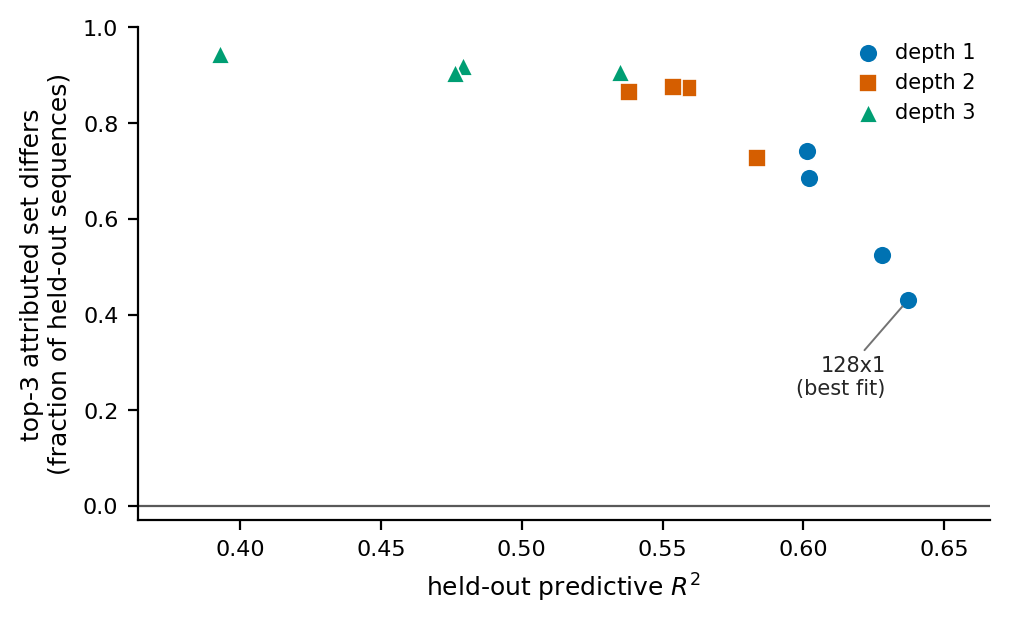
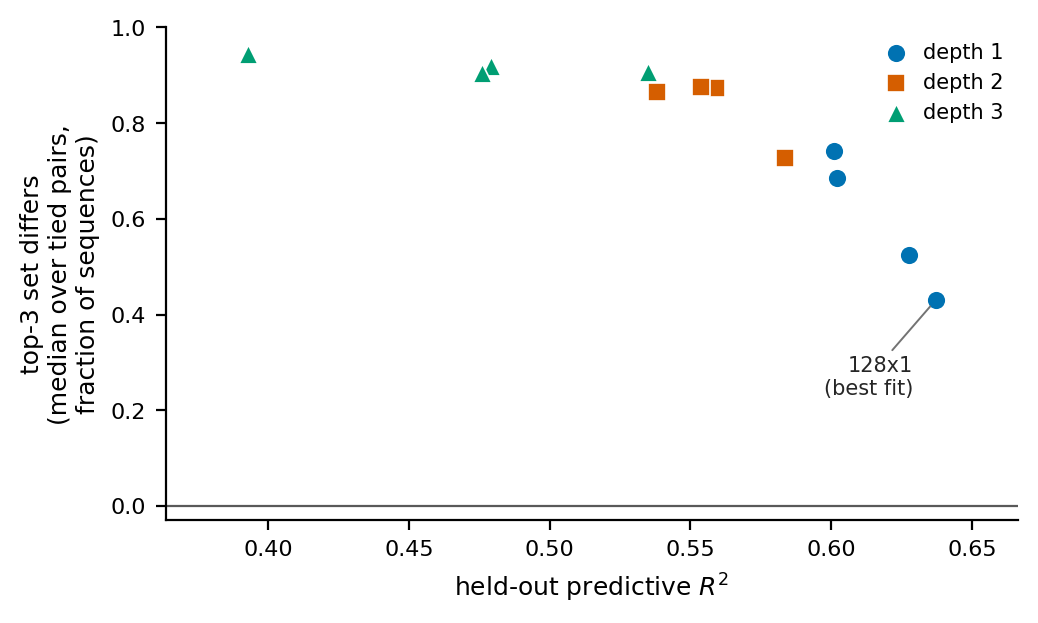
Three corrections to the main text, all verified against the run records
Your paste was the pre-fix version of the file; the wrong-experiment numbers in
items 1 and 2 had already been corrected and pushed. There is no
icbinb_final.tex in the repository -- the paper is paper/neurips_2026.tex. Two
of the three items were genuinely outstanding, and I applied them.

REMOVED THE UNREPRODUCIBLE FIGURE. 1.1e6 is gone from both places, Section 4.3
and the remark after Proposition 3, and now appears nowhere in paper/. The
binomial model was replaced before the separation experiment was first
committed, so its inflation magnitude cannot be regenerated from released code.
Both passages now say so explicitly rather than leaving a silent gap, and keep
only the reproducible argument: ex >= tot on 4.9% of rows, where binomial
variance is zero or negative, and a Poisson mean-over-median ratio of 3.0.

HEADLINE UPDATED. "roughly half" was vague and understated the result. The
abstract now says 43% at the best-fitting cell rising to 94% at the worst,
which is accurate and stronger.

BOUNDARY CONDITION REFRAMED AS DIVERGENCE, as asked: 43-74% at depth 1, 73-88%
at depth 2, 90-94% at depth 3, improving with width within depth 1 from 74% to
43% and never falling below 43% anywhere. It states plainly that no cell is
safe and that depth is the operative variable.

FIGURE 1 AXIS AND CAPTION. The y-axis said "fraction of held-out sequences",
which is not what pooled_tk_ex3 is. Both the axis label and the caption now say
[…]

diff --git a/paper/neurips_2026.tex b/paper/neurips_2026.tex
@@ -39,9 +39,10 @@ Reading the top attributed positions off a trained sequence--activity model is
 standard practice for guiding RNA therapeutic design. We set out to validate
 that practice on a real multiplexed splicing assay and report that it fails.
 Models whose held-out accuracy is statistically indistinguishable assign
-different top-3 positions for roughly half of held-out sequences, and the
-failure is not confined to poorly-fitting models: it persists at the
-best-fitting cell in our grid. Diagnosing why, we find three compounding causes.
+different top-3 positions for $43\%$ of held-out sequences at the best-fitting
+cell in our grid, rising to $94\%$ at the worst. The failure is therefore not
+confined to poorly-fitting models; no cell in the grid escapes it. Diagnosing
+why, we find three compounding causes.
 The fitting objective does not identify the attribution, so the choice among
 equally-accurate models is made by the initialization seed. Attribution mass is
 concentrated, with a median 86\% of a sequence's total in 3 of 9 positions; we
@@ -167,11 +168,14 @@ resolution.
   \centering
   \includegraphics[width=0.86\linewidth]{figures/fig1_not_weak_models.pdf}
   \caption{\textbf{The failure is not an artifact of poorly-fitting models.}
-  Each point is one architecture cell: held-out predictive $R^2$ against the
-  fraction of held-out sequences whose top-3 attributed position set differs
-  between two accuracy-matched models. The best-fitting cell in the grid still
-  disagrees on a substantial fraction of sequences, so the failure cannot be
-  dismissed as a symptom of underfitting.}
+  Each point is one architecture cell: held-out predictive $R^2$ against top-3
+  attributed-set divergence between accuracy-matched models. \textbf{The
+  plotted quantity is the median, over accuracy-tied pairs, of that pair's
+  fraction of held-out sequences whose top-3 sets differ} --- a median over
+  pairs of a per-pair fraction, not a single fraction pooled over sequences; the
+  same definition is used in Tables~\ref{tab:topk} and~\ref{tab:full}. The
+  best-fitting cell still diverges on $43\%$ of sequences, so the failure cannot
+  be dismissed as a symptom of underfitting.}
   \label{fig:headline}
 \end{figure}
 
@@ -188,9 +192,13 @@ reaching $+0.350$ (Figure~\ref{fig:headline}).
 \paragraph{The top-$k$ set, which is what gets used.}
 The top-3 set differs for 73\% and 90\% of held-out sequences at width 128,
 depths 2 and 3; restricted to sequences where the concentration diagnostic
-(Section~\ref{sec:why}) says the comparison is meaningful, 71\% and 80\%.
+(Section~\ref{sec:why}) says the comparison is meaningful, 71\% and 80\%. The
+conditioned figure is reported for completeness but carries little weight at
+depth 3: only $11\%$ of sequences at width 128 depth 3 have a well-defined
+top-3 under both models, and at width 64 depth 3 none do.
 These are accuracy-tied pairs of \emph{independently trained} models, the
-population described in Section~\ref{sec:approach}. The corresponding figures for a fit
+population described in Section~\ref{sec:approach}. The corresponding figures
+for a fit
 against its own reparameterized twin are much smaller --- 46\%, 47\%, 34\% and
 21\% --- and are reported separately in Appendix~\ref{gen:twin}; the two
 populations must not be quoted interchangeably.
@@ -305,12 +313,17 @@ Proposition~\ref{prop:noise} gives the Poisson log-ratio scale.
 result.}
 Under a binomial form, a near-saturated sequence receives $\sigma \to 0$; since
 the separation test of Proposition~\ref{prop:sep} weights points by
-$1/\sigma^2$, a handful of such points dominated. The mean of $1/\sigma^2$ ran
-$1.1 \times 10^6$ times its median, and the required sample size collapsed to
-zero --- that is, the analysis reported that the models were trivially
-separable. Under the Poisson log-ratio that ratio is $3.0$ and the requirement
-becomes meaningful. Counting noise is a lower bound on total noise, so every
-reported requirement is a lower bound.
+$1/\sigma^2$, a handful of such points dominated and the required sample size
+collapsed to zero --- that is, the analysis reported that the models were
+trivially separable. The binomial model is also inapplicable on its own terms
+here: $N_{\mathrm{ex}} \ge N_{\mathrm{tot}}$ on $4.9\%$ of rows, where the
+binomial variance is zero or negative. Under the Poisson log-ratio the weight
+distribution is unremarkable --- the mean of $1/\sigma^2$ is $3.0$ times its
+median --- and the requirement becomes meaningful. We do not quote a magnitude
+for the binomial inflation: that model was replaced before the separation
+experiment was first committed, so the figure cannot be regenerated from
+released code (Appendix~\ref{gen:noise}). Counting noise is a lower bound on
+total noise, so every reported requirement is a lower bound.
 
 \subsection{Cause 4: two ways our validation nearly hid the failure}
 
@@ -352,13 +365,13 @@ pinning the distinction.
 The practice is not always unsound, and the conditions are measurable.
 
 \begin{itemize}
-\item \textbf{Depth is what tracks the failure; width is not.} Exact top-3
-  agreement falls monotonically with depth --- 26--57\% at depth 1, 12--27\% at
-  depth 2, 6--10\% at depth 3 --- with a rank correlation of $+0.80$ between
-  depth and top-3 divergence against $-0.06$ for width. \textbf{No cell in this
-  grid is safe.} The best, width 128 depth 1, still differs on the top-3 set
-  for $43\%$ of sequences. We looked for a low-capacity exemption and did not
-  find one.
+\item \textbf{Depth is what tracks the failure; width is not, and no cell is
+  safe.} Top-3 divergence rises monotonically with depth: $43$--$74\%$ at depth
+  1, $73$--$88\%$ at depth 2, $90$--$94\%$ at depth 3, a rank correlation of
+  $+0.80$ with depth against $-0.06$ with width. Within depth 1 it improves with
+  width, from $74\%$ at width 16 to $43\%$ at width 128, but it never falls
+  below $43\%$ anywhere in the grid. We looked for a low-capacity exemption and
+  found the opposite: the narrowest models are among the worst.
 \item \textbf{It degrades with capacity, not with fit quality alone.} The
   correlation between held-out $R^2$ and agreement is $+0.650$: real, but far
   from explanatory, and the best-fitting cell still shows the failure.
@@ -536,12 +549,14 @@ Modelling the readout as a proportion $p$ from $N$ trials gives
 $\mathrm{sd}(y) \propto \sqrt{(1-p)/(Np)}$, which tends to $0$ as $p \to 1$.
 Since the statistic of Proposition~\ref{prop:sep} weights points by
 $1/\sigma_i^2$, a small number of near-saturated sequences then carry unbounded
-weight. Empirically the ratio $\mathrm{mean}(1/\sigma^2)/\mathrm{median}(1/\sigma^2)$
-is $1.1 \times 10^6$ under the binomial form and $3.0$ under
-Proposition~\ref{prop:noise}. The binomial model is also inapplicable on its own
-terms here: $N_{\mathrm{ex}} > N_{\mathrm{tot}}$ in 4.9\% of rows, by up to
-$20.9\times$, so the two counts are not numerator and denominator of a
-proportion.
+weight. Under Proposition~\ref{prop:noise} the ratio
+$\mathrm{mean}(1/\sigma^2)/\mathrm{median}(1/\sigma^2)$ is $3.0$, a heavy but
+unremarkable tail. We give no corresponding figure for the binomial form: it was
+replaced before the separation experiment was first committed and cannot be
+regenerated from released code, so only the structural defect is quoted. That
+defect is decisive on its own: $N_{\mathrm{ex}} > N_{\mathrm{tot}}$ in 4.9\% of
+rows, by up to $20.9\times$, so the two counts are not numerator and
+denominator of a proportion.
 \end{remark}
 
 \begin{proposition}[Separation sample size]

diff --git a/experiments/make_figures.py b/experiments/make_figures.py
@@ -300,7 +300,10 @@ def figure1(run: pathlib.Path, out: pathlib.Path) -> dict:
     )
 
     ax.set_xlabel("held-out predictive $R^2$")
-    ax.set_ylabel("top-3 attributed set differs\n(fraction of held-out sequences)")
+    # Say what is actually plotted. pooled_tk_ex3 is a MEDIAN OVER PAIRS of a
+    # per-pair fraction, not a fraction pooled over sequences, and the earlier
+    # label claimed the latter.
+    ax.set_ylabel("top-3 set differs\n(median over tied pairs,\nfraction of sequences)")
     # y starts at 0 so the reader sees absolute magnitude rather than an
     # autoscaled band, with a hair of room below so the y=0 rule is not hidden
     # under the spine. x is given the data range plus padding: forcing x to 0
